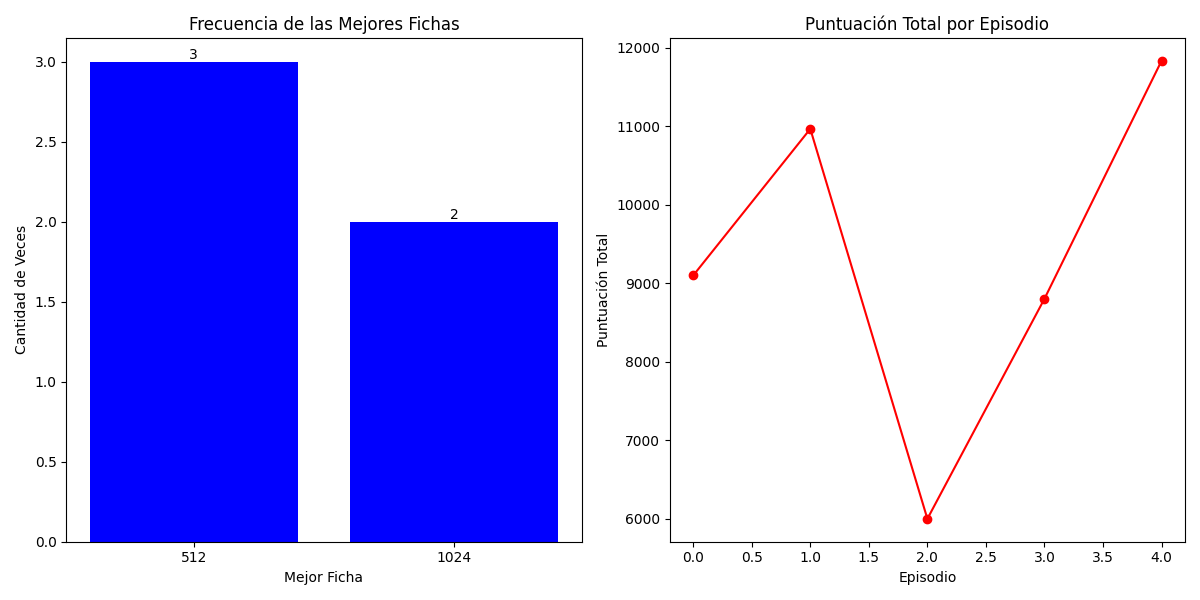
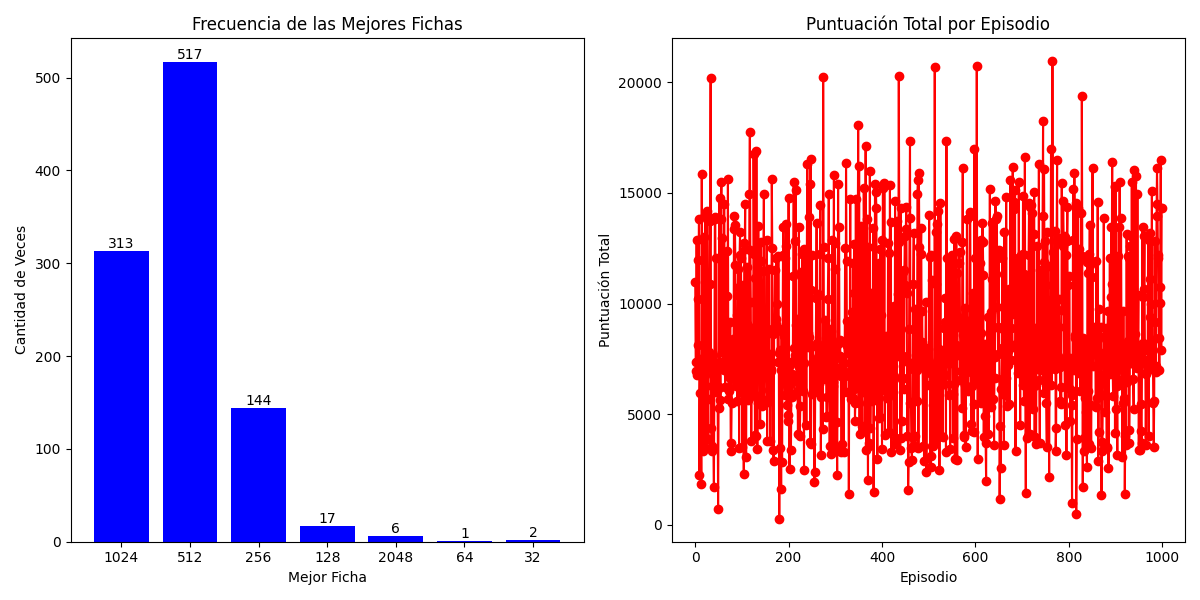
DQN ready

diff --git a/DQN_eval.py b/DQN_eval.py
@@ -54,13 +54,13 @@ class DQN(nn.Module):
         x = F.dropout(self.dense1(x))
         return self.dense6(x)
     
-def encode_state(board):
-  board = np.array(board)
-  board_flat = [0 if e == 0 else int(math.log(e, 2)) for e in board.flatten()]
-  board_flat = torch.LongTensor(board_flat)
-  board_flat = F.one_hot(board_flat, num_classes=16).float().flatten()
-  board_flat = board_flat.reshape(1, 4, 4, 16).permute(0, 3, 1, 2)
-  return board_flat
+def encode_state(state):
+  state = np.array(state)
+  state_flatten = [0 if e == 0 else int(math.log(e, 2)) for e in state.flatten()]
+  state_flatten = torch.LongTensor(state_flatten)
+  state_flatten = F.one_hot(state_flatten, num_classes=16).float().flatten()
+  state_flatten = state_flatten.reshape(1, 4, 4, 16).permute(0, 3, 1, 2)
+  return state_flatten
 
 policy_net = DQN().to(DEVICE)
 policy_net.load_state_dict(torch.load('./training_DQN/policy_w.pth'))
@@ -87,7 +87,7 @@ total_scores, best_tile_list = [], []
 historical_max_value = 0
 
 # Número de episodios 
-num_test_episodes = 5
+num_test_episodes = 1000
 print("Start")
 for i_episode in range(num_test_episodes):
     game.restart()

diff --git a/DQN_train.py b/DQN_train.py
@@ -57,13 +57,13 @@ class DQN(nn.Module):
         x = F.dropout(self.dense1(x))
         return self.dense6(x)
     
-def encode_state(game):
-  game = np.array(game)
-  game_flatten = [0 if e == 0 else int(math.log(e, 2)) for e in game.flatten()]
-  game_flatten = torch.LongTensor(game_flatten)
-  game_flatten = F.one_hot(game_flatten, num_classes=16).float().flatten()
-  game_flatten = game_flatten.reshape(1, 4, 4, 16).permute(0, 3, 1, 2)
-  return game_flatten
+def encode_state(state):
+  state = np.array(state)
+  state_flatten = [0 if e == 0 else int(math.log(e, 2)) for e in state.flatten()]
+  state_flatten = torch.LongTensor(state_flatten)
+  state_flatten = F.one_hot(state_flatten, num_classes=16).float().flatten()
+  state_flatten = state_flatten.reshape(1, 4, 4, 16).permute(0, 3, 1, 2)
+  return state_flatten
 
 # Replay buffer
 Transition = namedtuple('Transition',

diff --git a/2048-game.py b/2048-game.py
@@ -7,7 +7,7 @@ from matrix import matrix_2048
 from randomRollouts import MCTS2048
 from DQN_agent import DQN_Agent
 
-algorithm = 0 #0 = jugador, 1 = mcts # 2 = DQN
+algorithm = 2 #0 = jugador, 1 = mcts # 2 = DQN
 
 if algorithm == 1:
     MCTS2048 = MCTS2048(5,0,1)
@@ -206,8 +206,8 @@ while running:
             valid_move = game.left()
         elif action.item() == 3:
             valid_move = game.right()
-        if valid_movement:
+        if valid_move:
             game.add_number()  
-        time.sleep(0.3)  
+        time.sleep(0.1)  
     pygame.display.flip()
 pygame.quit()

diff --git a/randomRollouts.py b/randomRollouts.py
@@ -74,12 +74,12 @@ class MCTS2048:
         
 max_value = 0
 i = 1
-while max_value < 2048:
-    game = matrix_2048()
-    mcts = MCTS2048(game)
-    max_value = mcts.init_algorithm(game)
-    print(f"Max value in game {i}: ", max_value)
-    game.print_matrix()
-    print()
-    i += 1
+#while max_value < 2048:
+#    game = matrix_2048()
+#    mcts = MCTS2048(game)
+#    max_value = mcts.init_algorithm(game)
+#    print(f"Max value in game {i}: ", max_value)
+#    game.print_matrix()
+#    print()
+#    i += 1
 

diff --git a/DQN_agent.py b/DQN_agent.py
@@ -3,8 +3,6 @@ import torch.nn as nn
 import torch.nn.functional as F
 import numpy as np
 import math
-from itertools import count
-from matrix import matrix_2048
 
 DEVICE = torch.device("cuda" if torch.cuda.is_available() else "cpu")
 print(DEVICE)
